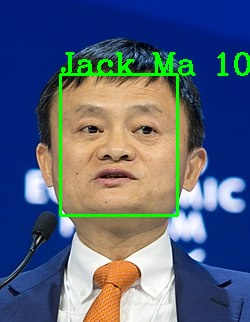
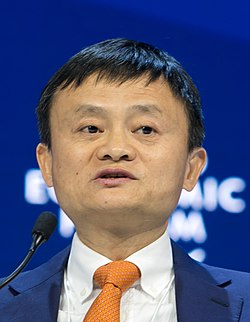
add probability>95

Changed region(s): [[0.224, 0.1553, 0.784, 0.6832], [0.868, 0.1553, 1.0, 0.2484]]

diff --git a/8_DeployModelOnWeb.py b/8_DeployModelOnWeb.py
@@ -69,13 +69,23 @@ def index():
             print("Probability: %.3f" %(class_probability))
 
             cv2.rectangle(img_org, (x1, y1), (x2, y2), (0, 255, 0), 2)
-            cv2.putText(img_org, predict_name[0] + " " + str(round(class_probability, 2)), (x1, y1),
-                        cv2.FONT_HERSHEY_COMPLEX, 1, (0, 255, 0), 2)
-            cv2.imwrite(image_path, img_org)
-            return render_template("index.html", imgname=image.filename,
-                                                facename=predict_name[0],
-                                                probability=class_probability,
-                                                success=True)
+            if class_probability > 95:
+                cv2.putText(img_org, predict_name[0] + " " + str(round(class_probability, 2)), (x1, y1),
+                            cv2.FONT_HERSHEY_COMPLEX, 1, (0, 255, 0), 2)
+                cv2.imwrite(image_path, img_org)
+                return render_template("index.html", imgname=image.filename,
+                                                    facename=predict_name[0],
+                                                    probability=class_probability,
+                                                    success=True)
+            else:
+                cv2.putText(img_org, "Unknown", (x1, y1),
+                            cv2.FONT_HERSHEY_COMPLEX, 1, (0, 255, 0), 2)
+                cv2.imwrite(image_path, img_org)
+                return render_template("index.html", imgname=image.filename,
+                                                    facename="Unknown",
+                                                    probability="",
+                                                    success=True)
+
 
         else:
             return render_template("index.html",  imgname=image.filename,
